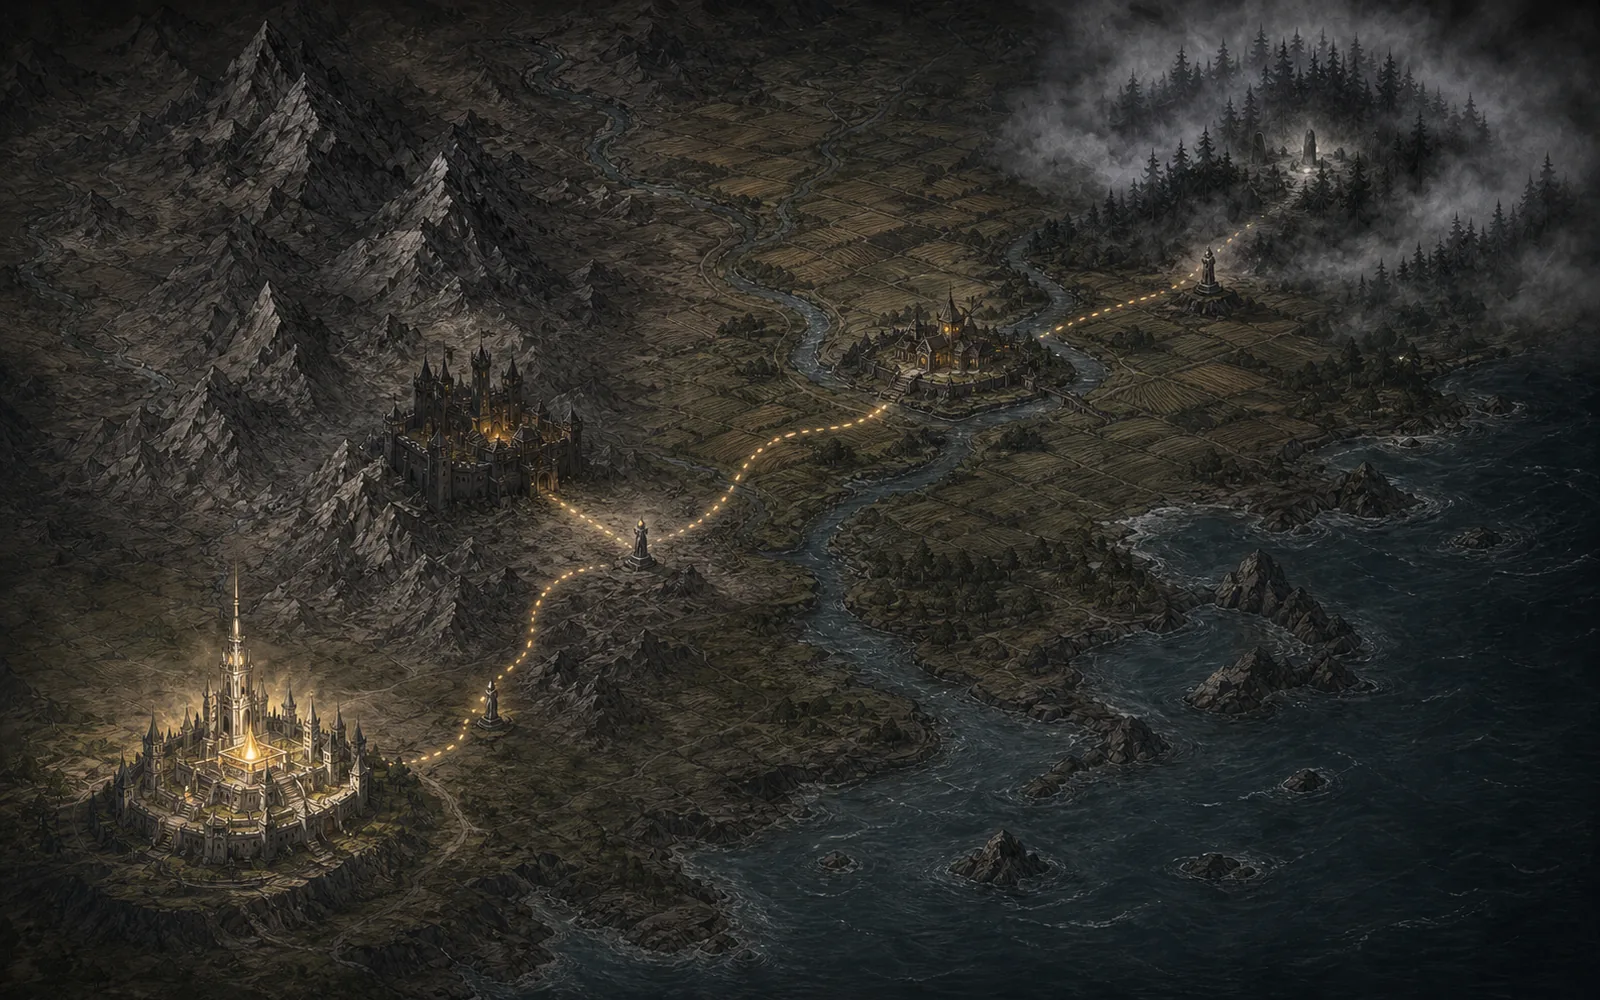
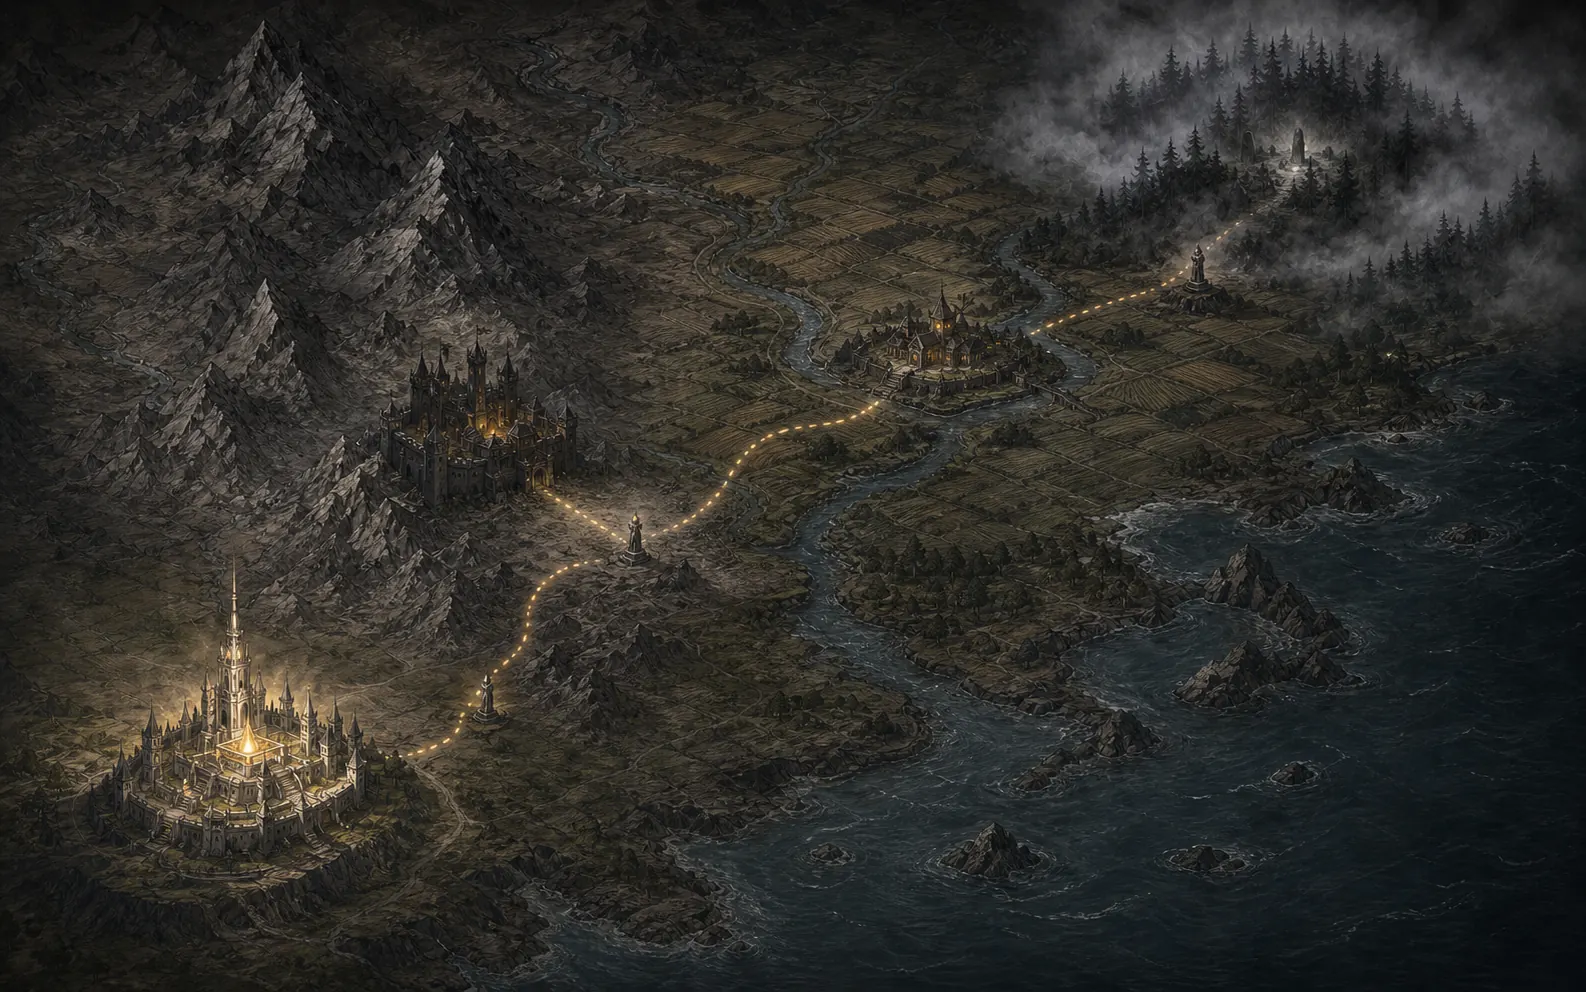
Separate campaign maps and improve roster framing

Changed region(s): [[0.0309, 0.6875, 0.2781, 0.875], [0.1236, 0.875, 0.1854, 0.9062], [0.3707, 0.5312, 0.4016, 0.5625]]

diff --git a/src/main.ts b/src/main.ts
@@ -208,6 +208,18 @@ const campaignActionBattleEffect={
   negotiate:'敌方信念与信念上限 -1。',
 } as const;
 const routePositions=[{x:21,y:76},{x:40,y:48},{x:61,y:35}];
+// The mainline uses its own regional map. These anchors follow the geography
+// in the seven-volume outline: mountain border → gate road → river junction →
+// furnace city → mine → scorched front → lake capital.
+const mainlineMapNodes=[
+  {week:1,title:'刑场逃亡',location:'第一章·铁与火',x:18,y:43},
+  {week:2,title:'暗影大教堂撤离',location:'第二章·流亡与争抢',x:23,y:17},
+  {week:3,title:'马奴低洼伏击',location:'第三章·新卡瓦拉守护者',x:49,y:48},
+  {week:4,title:'四国会战',location:'第四章·改革与崩溃',x:53,y:16},
+  {week:5,title:'龙誓矿脉',location:'第五章·草原之主',x:17,y:56},
+  {week:6,title:'造神圣殿',location:'第六章·邪神崛起',x:79,y:29},
+  {week:7,title:'湖都终局',location:'第七章·终局之战',x:83,y:59},
+] as const;
 
 function persistCampaign(next:CampaignState){campaignState=next;saveCampaign(campaignState,localStorage);try{localStorage.setItem(activeCampaignKey,next.campaignId)}catch{}}
 function mainlineWeekContent(week:number):MilestoneAWeekContent{
@@ -301,15 +313,19 @@ function renderCampaign(view:CampaignView=campaignState.view){
 function renderCampaignHome(){
   const route=currentRoute();
   const content=currentWeekContent(),activeRouteIndex=currentRouteIndex();
+  const mainline=campaignState.campaignId==='arthur-main';
+  const mapAsset=mainline?'/assets/images/mainline-iron-fire-map.webp':'/assets/images/campaign-route-map.webp';
+  const mapAlt=mainline?'铁与火七章区域地图：山口、铁路、熔炉城、焦土前线与湖都':'从圣辉城通向铁砧边境与河湾境的战斗路线地图';
   const lineupNames=campaignState.lineup.map(id=>characters[id].name).join(' · ');
-  const mainlineStats=campaignState.campaignId==='arthur-main'&&campaignState.mainline?`<div class="campaign-status-line mainline-stats"><span>亚瑟 Lv.${campaignState.mainline.level} <b>${campaignState.mainline.experience} XP</b></span><span>力量 <b>${campaignState.mainline.strength}</b></span><span>意志 <b>${campaignState.mainline.will}</b></span><span>军职 <b>${escapeHtml(campaignState.mainline.militaryRank)}</b></span></div>`:'';
+  const mainlineStats=mainline&&campaignState.mainline?`<div class="campaign-status-line mainline-stats"><span>亚瑟 Lv.${campaignState.mainline.level} <b>${campaignState.mainline.experience} XP</b></span><span>力量 <b>${campaignState.mainline.strength}</b></span><span>意志 <b>${campaignState.mainline.will}</b></span><span>军职 <b>${escapeHtml(campaignState.mainline.militaryRank)}</b></span></div>`:'';
   persistCampaign(navigateCampaign(campaignState,'home'));
   const actions=content.actions.map((action,index)=>`<button class="campaign-action ${campaignState.selectedAction===action.id?'selected':''}" data-home-action="${action.id}"><span class="campaign-action-order">${String(index+1).padStart(2,'0')}</span><span class="campaign-action-copy"><strong>${escapeHtml(action.title)}</strong><small>${escapeHtml(action.immediateEffect)}</small></span><span class="campaign-action-state" aria-hidden="true">${campaignState.selectedAction===action.id?'已选':'选择'}</span></button>`).join('');
   const mainlineMissions=campaignState.campaignId==='arthur-main'&&campaignState.mainline?mainlineMissionsForChapter(campaignState.week).map(mission=>{const selected=campaignState.mainline?.selectedMissionId===mission.id,done=campaignState.mainline?.completedMissions.includes(mission.id);return `<button type="button" class="mission-card ${selected?'selected':''} ${done?'completed':''}" data-mainline-mission="${mission.id}" aria-pressed="${selected}" ${done?'disabled':''}><img src="${mission.icon}" alt="" width="56" height="56" loading="lazy" decoding="async" onerror="this.hidden=true"><span><small>${escapeHtml(mission.type)} · ${done?'已完成':selected?'当前任务':'可接取'}</small><strong>${escapeHtml(mission.title)}</strong><em>${escapeHtml(mission.description)}</em></span><b>${escapeHtml(mission.reward)}</b></button>`}).join(''):'';
   const mainlineMissionPanel=campaignState.campaignId==='arthur-main'?`<section class="mainline-mission-board"><div class="campaign-actions-heading"><h2>军职任务</h2><span>完成战斗可结算</span></div>${mainlineMissions||'<p class="campaign-feedback">本章暂无额外任务；先完成主线行动。</p>'}</section>`:'';
-  const nodes=content.route.map((node,index)=>{const position=routePositions[index]??routePositions[routePositions.length-1];return `<button class="map-node ${index===activeRouteIndex?'current':index<activeRouteIndex?'complete':''}" style="--node-x:${position.x}%;--node-y:${position.y}%" data-route-index="${index}"><span>${escapeHtml(node.title)}</span><small>${escapeHtml(node.location)}</small></button>`}).join('');
+  const mainlineWeek=Math.min(mainlineMapNodes.length,Math.max(1,campaignState.week));
+  const nodes=mainline?mainlineMapNodes.map(node=>{const active=node.week===mainlineWeek,complete=node.week<mainlineWeek;return `<button class="map-node mainline-map-node ${active?'current':complete?'complete':''}" style="--node-x:${node.x}%;--node-y:${node.y}%" data-mainline-map-week="${node.week}" aria-label="${escapeHtml(node.title)}：${escapeHtml(node.location)}"><span>${escapeHtml(node.title)}</span><small>${escapeHtml(node.location)}</small></button>`}).join(''):content.route.map((node,index)=>{const position=routePositions[index]??routePositions[routePositions.length-1];return `<button class="map-node ${index===activeRouteIndex?'current':index<activeRouteIndex?'complete':''}" style="--node-x:${position.x}%;--node-y:${position.y}%" data-route-index="${index}"><span>${escapeHtml(node.title)}</span><small>${escapeHtml(node.location)}</small></button>`}).join('');
   const lineup=campaignState.lineup.map(id=>{const memberContent=content.roster.find(item=>item.characterId===id),person=characters[id],condition=campaignState.roster.find(item=>item.id===id)?.condition??'normal',portrait=portraitByCharacter[id];return `<article class="home-member">${portrait?`<img src="${portrait}" alt="${escapeHtml(person.name)}" width="260" height="360">`:`<div class="portrait-fallback" aria-label="${escapeHtml(person.name)}暂无人物画像"><span>${escapeHtml(person.name.slice(0,1))}</span></div>`}<div><small>${escapeHtml(memberContent?.roleName??person.title)}</small><strong>${escapeHtml(person.name)}</strong><span class="condition ${condition}">${conditionLabel[condition]}</span></div></article>`}).join('');
-  set(`<main class="campaign-shell hud-page">${flowHeader('home')}<div class="campaign-home-grid"><section class="campaign-map" aria-label="战斗路线"><img src="/assets/images/campaign-route-map.webp" alt="从圣辉城通向铁砧边境与河湾境的战斗路线地图" width="1600" height="1000">${nodes}</section><aside class="campaign-next"><div class="campaign-next-heading"><p class="eyebrow">下一行动</p><h1>${escapeHtml(route.title)}</h1><p class="location">${escapeHtml(route.location)} · 风险${escapeHtml(visibleRisk())}</p></div><figure class="campaign-next-scene"><img src="/assets/images/campaign-route-map.webp" alt="${escapeHtml(route.title)}所在区域的路线图景" width="1600" height="1000"><figcaption><span>当前战斗节点</span><strong>${escapeHtml(route.location)}</strong></figcaption></figure><div class="campaign-status-line"><span>平民安全 <b>${campaignState.civilianSafety}/3</b></span><span>${campaignState.campaignId==='arthur-main'?'军队声望':'女神国'} <b>${campaignState.campaignId==='arthur-main'?campaignState.factionAttitudes.wardens:attitudeLabel(campaignState.factionAttitudes.goddessState)}</b></span><span class="campaign-lineup-status">当前阵容 <b>${escapeHtml(lineupNames)}</b></span></div>${mainlineStats}<p>${escapeHtml(route.objective)}</p><section class="campaign-actions"><div class="campaign-actions-heading"><h2>${campaignState.campaignId==='arthur-main'?'战前准备':'准备行动'}</h2><span>三选一</span></div>${actions}</section>${mainlineMissionPanel}<button id="open-battle" class="campaign-primary">查看战斗</button><p id="home-feedback" class="campaign-feedback" aria-live="polite"></p></aside></div><section class="home-lineup"><header><p class="eyebrow">出战三人</p><button id="home-roster" class="text-button">调整阵容</button></header><div>${lineup}</div></section></main>`);
+  set(`<main class="campaign-shell hud-page">${flowHeader('home')}<div class="campaign-home-grid"><section class="campaign-map ${mainline?'mainline-map':''}" aria-label="战斗路线"><img src="${mapAsset}" alt="${mapAlt}" width="1536" height="1024">${nodes}</section><aside class="campaign-next"><div class="campaign-next-heading"><p class="eyebrow">下一行动</p><h1>${escapeHtml(route.title)}</h1><p class="location">${escapeHtml(route.location)} · 风险${escapeHtml(visibleRisk())}</p></div><figure class="campaign-next-scene"><img src="${mapAsset}" alt="${escapeHtml(route.title)}所在区域的路线图景" width="1536" height="1024"><figcaption><span>当前战斗节点</span><strong>${escapeHtml(route.location)}</strong></figcaption></figure><div class="campaign-status-line"><span>平民安全 <b>${campaignState.civilianSafety}/3</b></span><span>${mainline?'军队声望':'女神国'} <b>${mainline?campaignState.factionAttitudes.wardens:attitudeLabel(campaignState.factionAttitudes.goddessState)}</b></span><span class="campaign-lineup-status">当前阵容 <b>${escapeHtml(lineupNames)}</b></span></div>${mainlineStats}<p>${escapeHtml(route.objective)}</p><section class="campaign-actions"><div class="campaign-actions-heading"><h2>${mainline?'战前准备':'准备行动'}</h2><span>三选一</span></div>${actions}</section>${mainlineMissionPanel}<button id="open-battle" class="campaign-primary">查看战斗</button><p id="home-feedback" class="campaign-feedback" aria-live="polite"></p></aside></div><section class="home-lineup"><header><p class="eyebrow">出战三人</p><button id="home-roster" class="text-button">调整阵容</button></header><div>${lineup}</div></section></main>`);
   document.querySelectorAll<HTMLButtonElement>('[data-home-action]').forEach((button,index)=>{
     button.type='button';
     button.setAttribute('aria-pressed',String(button.classList.contains('selected')));
@@ -329,6 +345,7 @@ function renderCampaignHome(){
   document.querySelector('.campaign-top .campaign-flow')?.prepend(bossLink,shopLink);
   document.querySelector('#home-roster')?.addEventListener('click',()=>{lineupDraft=[...campaignState.lineup];persistCampaign(navigateCampaign(campaignState,'roster'));renderRosterSelection()});
   document.querySelectorAll<HTMLButtonElement>('[data-route-index]').forEach(button=>button.onclick=()=>{const index=Number(button.dataset.routeIndex);const feedback=document.querySelector<HTMLElement>('#home-feedback');if(index!==activeRouteIndex&&feedback)feedback.textContent='未来行动尚未开放；完成当前行动后，路线会根据战后报告更新。';else renderBattleOverview()});
+  document.querySelectorAll<HTMLButtonElement>('[data-mainline-map-week]').forEach(button=>button.onclick=()=>{const week=Number(button.dataset.mainlineMapWeek);const current=Math.min(mainlineMapNodes.length,Math.max(1,campaignState.week));const feedback=document.querySelector<HTMLElement>('#home-feedback');if(week===current){renderBattleOverview();return}if(feedback)feedback.textContent=week<current?'该章节已完成，可在藏书馆回看相关档案。':'后续章节尚未开放；完成当前行动后，路线会继续向前推进。'});
   showScrollHintOnce('home');
 }
 

diff --git a/src/campaign.css b/src/campaign.css
@@ -363,3 +363,17 @@
     transform:none;
   }
 }
+
+/* The regional route map uses compact pins so all seven mainline chapters
+   remain visible without covering the furnace, rail and lake landmarks. */
+.map-node{border-radius:9px}
+.mainline-map-node{min-width:142px;padding:8px 10px;background:#11181edb}
+.mainline-map-node.current{box-shadow:0 0 0 2px #c79b5248,0 8px 22px #000b}
+.home-member img{height:210px}
+@media(max-width:900px){.home-member img{height:178px}}
+@media(max-width:620px){.home-member img{height:145px}.mainline-map-node{min-width:126px}}
+@media(max-width:900px) and (orientation:landscape){
+  .home-member img{height:78px}
+  .mainline-map-node{min-width:112px;padding:7px 8px}
+  .mainline-map-node span{font-size:.8rem}
+}
